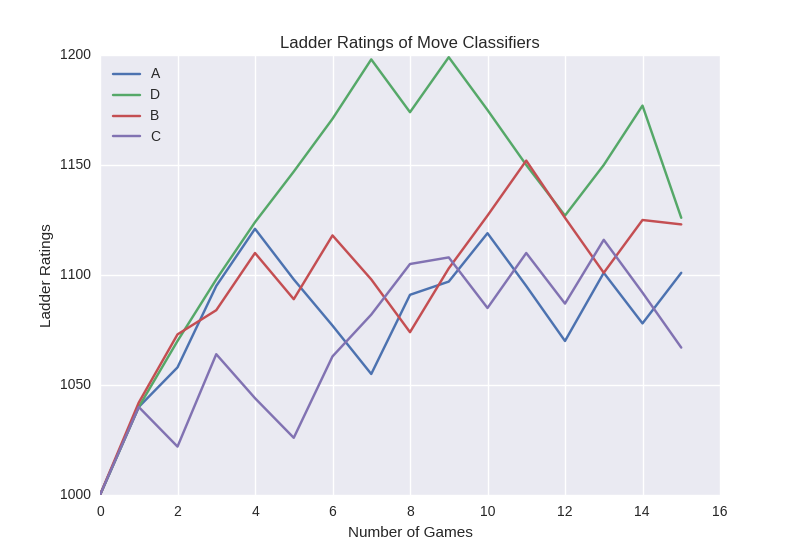
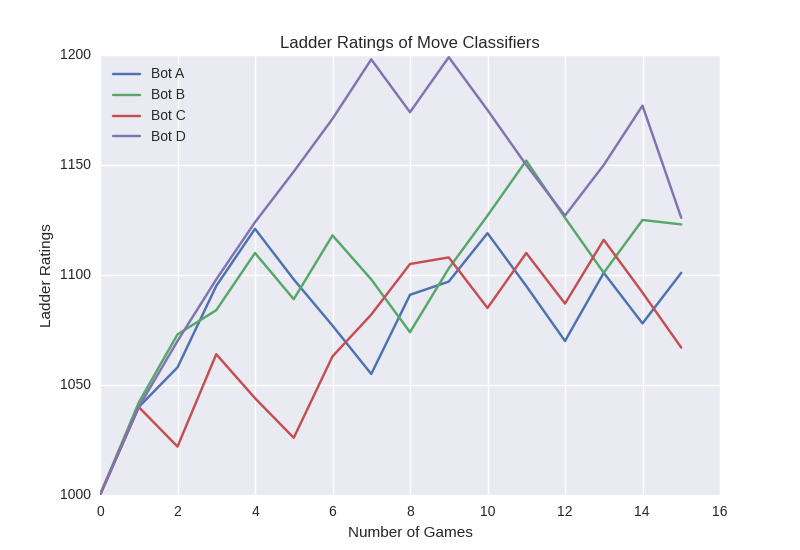
latest graphs

diff --git a/analysis/analysis.py b/analysis/analysis.py
@@ -16,9 +16,11 @@ def get_frequencies():
     for folder in directory.listdir():
         if "asdf7016" not in folder:
             continue
-        score = 0
-        total = 0
+        if str(folder.name) not in freqs:
+            freqs[str(folder.name)] = {}
         for subfolder in folder.listdir():
+            score = 0
+            total = 0
             if "ladder" in subfolder or "crashes" in subfolder:
                 continue
             for file in subfolder.listdir():
@@ -30,7 +32,8 @@ def get_frequencies():
                     t = float(scores[1])
                     score += s
                     total += t
-            freqs[str(folder.name)] = score / total
+            freqs[str(folder.name)][str(subfolder.name)] = 1 - score / total
+    print freqs
     return freqs
 
 def get_ratings():
@@ -59,7 +62,7 @@ def graph_frequencies(freqs):
     ind = list(map(lambda x: x+width, xrange(4)))  # the x locations for the groups
     for classifier in MAP.keys():
         classifiers.append(classifier)
-        errors.append(1 - freqs[classifier])
+        errors.append(freqs[classifier])
     plt.xlabel('Classifiers')
     plt.ylabel('Prediction Error Rate')
     plt.xticks(list(map(lambda x: x+width, ind)), ("A", "B", "C", "D"))
@@ -70,11 +73,11 @@ def graph_frequencies(freqs):
 def graph_ratings(rating_dict):
     plt.figure()
     labels = ['A', 'B', 'C', 'D']
-    for classifier, label in zip(rating_dict.keys(), labels):
+    for classifier, label in zip(MAP.keys(), labels):
         rating_list = rating_dict[classifier]
         rating_list = map(int, rating_list)
         rating_list = [1000] + rating_list
-        plt.plot(range(len(rating_list)), rating_list, label=MAP[classifier])
+        plt.plot(range(len(rating_list)), rating_list, label="Bot " + MAP[classifier])
     plt.xlabel('Number of Games')
     plt.ylabel('Ladder Ratings')
     plt.title('Ladder Ratings of Move Classifiers')
@@ -87,8 +90,9 @@ def ttest(rating1, rating2):
 if __name__ == "__main__":
     freqs = get_frequencies()
     ratings = get_ratings()
-    rating1 = map(int, ratings['asdf7016pokefreq'])[1:]
-    rating2 = map(int, ratings['asdf7016random'])[1:]
+    print ratings
+    #rating1 = map(int, ratings['asdf7016pokefreq'])[1:]
+    #rating2 = map(int, ratings['asdf7016random'])[1:]
     graph_frequencies(freqs)
     print rating1, rating2
     _, p = ttest_ind(rating1, rating2)
